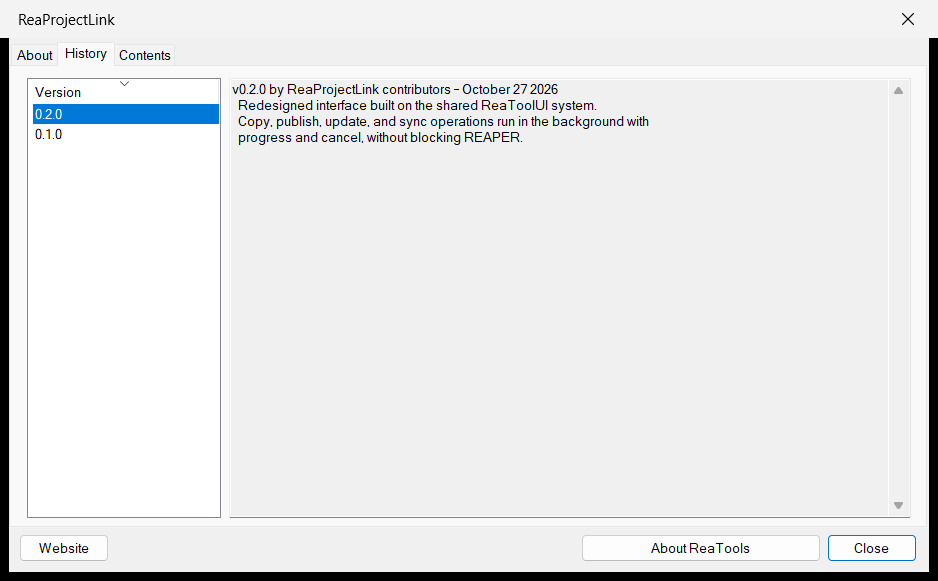
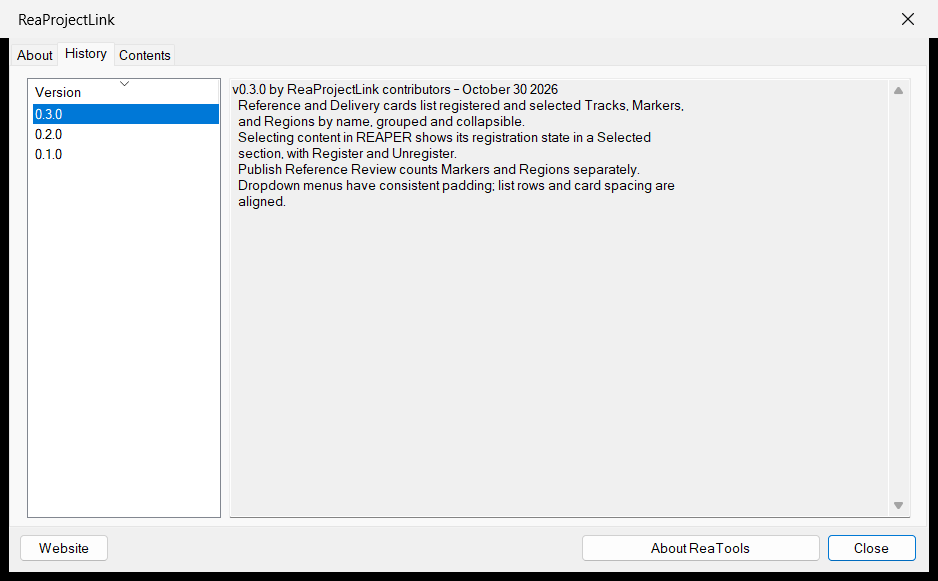
docs(manual): update for ReaProjectLink 0.3.0

Changed region(s): [[0.2473, 0.1549, 0.7111, 0.3718], [0.0309, 0.2478, 0.0618, 0.2788]]

diff --git a/tools/ReaProjectLink/docs/manual/zh-CN/README.md b/tools/ReaProjectLink/docs/manual/zh-CN/README.md
@@ -2,7 +2,7 @@
 
 ReaProjectLink 是一个 REAPER 脚本，用来在多个工程之间同步画面和交付音频：Master Project 把画面和 Marker 发给各部门，各部门把做好的音频交回 Master Project。各工程互不直接修改，每次更新都由接收的一方确认后再同步。
 
-本手册对应 ReaProjectLink 【待发布版本】。界面是英文的，手册中的按钮、状态名称都按界面原样书写。
+本手册对应 ReaProjectLink 0.3.0。界面是英文的，手册中的按钮、状态名称都按界面原样书写。
 
 ## 开始之前
 

diff --git a/docs/manual/zh-CN/install.md b/docs/manual/zh-CN/install.md
@@ -92,6 +92,10 @@ ReaTools 发布新版本后，需要手动同步：
 2. ReaPack 会下载所有已安装包的新版本，并在完成后列出更新内容。
 3. 如果 ReaProjectLink 窗口开着，先关掉再重新打开，新版本才会生效。
 
+![同步完成后的更新内容](images/install-sync-report.png)
+
+`Installed` 下的 `[v0.2.0 -> v0.3.0]` 表示从哪个版本升级到了哪个版本，下面是这个版本的更新说明。
+
 > 如果这次同步也更新了 ReaImGui，需要重启 REAPER。
 
 ## 6. 查看版本与回滚
